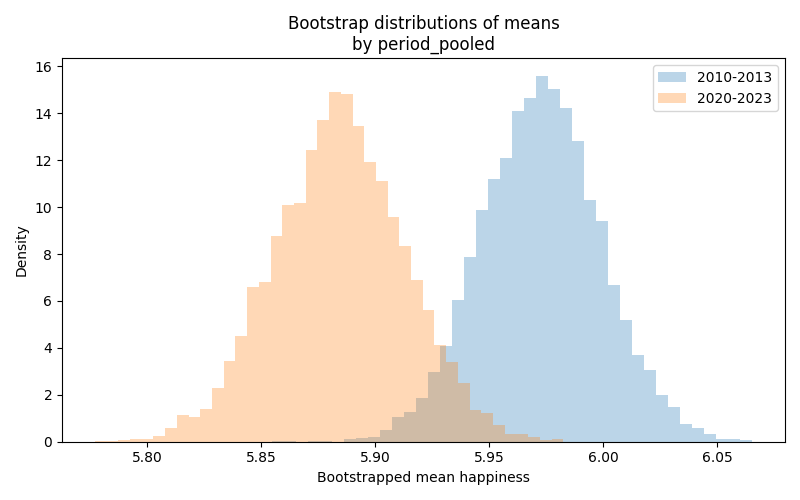
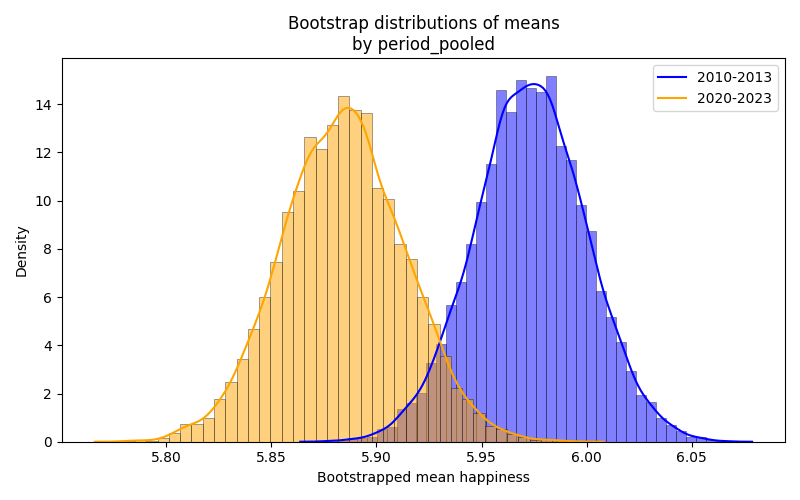
updated readme (also figure numbers in text)

diff --git a/src/analysis.py b/src/analysis.py
@@ -39,6 +39,7 @@ Methodology:
 import numpy as np
 import pandas as pd
 import matplotlib.pyplot as plt
+import seaborn as sns
 from pathlib import Path
 
 
@@ -70,7 +71,7 @@ def bootstrap_diff(data1, data2, n_boot=10000, return_all=False):
 
 
 def plot_mean_ci(df, save_path):
-    """Generate point+error bar plot of mean happiness by section and period with 95% CI."""
+    """Generate point+error bar plot with periods offset."""
     grouped = df.groupby(["section_name", "period"])["happiness"]
     ci_data = []
     for (section, period), group in grouped:
@@ -82,13 +83,24 @@ def plot_mean_ci(df, save_path):
         ci_data.append((section, period, group.mean(), ci_low, ci_high))
 
     ci_df = pd.DataFrame(ci_data, columns=["section", "period", "mean", "ci_low", "ci_high"])
-    # Plot
+
+    # Map sections to numeric positions
+    sections = ci_df["section"].unique()
+    y_pos = {s: i for i, s in enumerate(sections)}
+    dodge = 0.2  # offset between periods
+
     plt.figure(figsize=(8,5))
-    for period in ci_df["period"].unique():
+    periods = ci_df["period"].unique()
+    for i, period in enumerate(periods):
         subset = ci_df[ci_df["period"] == period]
-        plt.errorbar(subset["mean"], subset["section"],
+        # Determine offset: first period gets -dodge, second gets +dodge
+        offset = -dodge if i == 0 else dodge
+        y_vals = [y_pos[s] + offset for s in subset["section"]]
+        plt.errorbar(subset["mean"], y_vals,
                      xerr=[subset["mean"]-subset["ci_low"], subset["ci_high"]-subset["mean"]],
                      fmt='o', label=period, capsize=4)
+
+    plt.yticks(range(len(sections)), sections)
     plt.xlabel("Mean happiness (with 95% CI)")
     plt.ylabel("Section")
     plt.title("Mean happiness by section and period with 95% CI")
@@ -99,42 +111,70 @@ def plot_mean_ci(df, save_path):
     plt.show()
 
 def plot_bootstrap_means_density(df, group_var, period_var, value_col, save_path, n_boot=10000):
-    """
-    Plot density of bootstrapped means for each group defined by group_var and period_var.
-    If period_var is None, groups are only by group_var (ignoring period).
-    """
+    """Plot histogram of bootstrapped means with KDE overlay for each group."""
     groups = df[group_var].unique()
     periods = df[period_var].unique() if period_var else [None]
-    
+
+    # Determine colour mapping based on the grouping
+    if group_var == 'period_pooled':
+        # By period only: use standard period colours
+        color_map = {
+            '2010-2013': 'blue',
+            '2020-2023': 'orange'
+        }
+    elif period_var is None:
+        # By section only: use distinct colours for sections
+        section_colors = {
+            'World news': 'blue',
+            'Politics': 'green',
+            'Opinion': 'orange'
+        }
+        color_map = {g: section_colors.get(g, 'gray') for g in groups}
+    else:
+        # By section and period: use light/dark per section
+        color_map = {
+            ('World news', '2010-2013'): 'steelblue',
+            ('World news', '2020-2023'): 'darkblue',
+            ('Politics', '2010-2013'): 'lightgreen',
+            ('Politics', '2020-2023'): 'darkgreen',
+            ('Opinion', '2010-2013'): 'lightsalmon',
+            ('Opinion', '2020-2023'): 'darkorange',
+        }
+
     plt.figure(figsize=(8,5))
-    
+
     for period in periods:
         for group in groups:
             if period:
                 data = df[(df[group_var] == group) & (df[period_var] == period)][value_col].values
                 label = f"{group} ({period})"
+                key = (group, period)
             else:
                 data = df[df[group_var] == group][value_col].values
                 label = group
+                key = group
             if len(data) < 5:
                 print(f"Not enough data for {label}, skipping.")
                 continue
-            
+
             # Bootstrap means
             boot_means = [np.mean(np.random.choice(data, size=len(data), replace=True)) for _ in range(n_boot)]
-            
-            # Plot density
-            plt.hist(boot_means, bins=40, density=True, alpha=0.3, label=label)  # density=True for probability density
-    
+
+            # Get colour
+            color = color_map.get(key, 'gray')
+            # Histogram (bars) with colour
+            plt.hist(boot_means, bins=40, density=True, alpha=0.5, color=color, edgecolor='black', linewidth=0.5)
+            # KDE overlay (same colour)
+            sns.kdeplot(boot_means, color=color, linewidth=1.5, label=label)
+
     plt.xlabel(f"Bootstrapped mean happiness")
     plt.ylabel("Density")
     plt.title(f"Bootstrap distributions of means\nby {group_var}" + (f" and {period_var}" if period_var else ""))
     plt.legend()
     plt.tight_layout()
     plt.savefig(save_path)
+    plt.close()
     print(f"Saved bootstrap means density plot to {save_path}")
-    plt.show()
-
 
 def plot_bootstrap_distribution(boot_diffs, observed_diff, ci_low, ci_high, save_path):
     """Plot histogram of bootstrap differences with CI and observed difference."""
@@ -331,9 +371,10 @@ def main():
         if len(data_2010_sec) < 5 or len(data_2020_sec) < 5:
             print(f"{sec}: insufficient data (n<5)")
             continue
-        diff, ci_lo, ci_hi = bootstrap_diff(data_2010_sec, data_2020_sec)
-        print(f"{sec}: change = {diff:.3f}  [95% CI {ci_lo:.3f}, {ci_hi:.3f}]")
-    print()
+        # Use return_all=True to get the full bootstrap array
+        diff, ci_lo, ci_hi, boot_diffs = bootstrap_diff(data_2010_sec, data_2020_sec, n_boot=10000, return_all=True)
+        prob_2020_gt_2010 = np.mean(boot_diffs > 0)
+        print(f"{sec}: change = {diff:.3f}  [95% CI {ci_lo:.3f}, {ci_hi:.3f}]  Pr(2020‑23 > 2010‑13) = {prob_2020_gt_2010:.3f}")
 
     # 6. Point+error plot
     plot_mean_ci(df, Path("figures/mean_ci_by_section_period.png"))
@@ -368,8 +409,9 @@ def main():
             data_2010_sec = df[(df["section_name"] == sec) & (df["period"] == "2010-2013")]["happiness"].values
             data_2020_sec = df[(df["section_name"] == sec) & (df["period"] == "2020-2023")]["happiness"].values
             if len(data_2010_sec) >= 5 and len(data_2020_sec) >= 5:
-                diff, ci_lo, ci_hi = bootstrap_diff(data_2010_sec, data_2020_sec)
-                f.write(f"{sec}: change = {diff:.3f} [95% CI {ci_lo:.3f}, {ci_hi:.3f}]\n")
+                diff, ci_lo, ci_hi, boot_diffs = bootstrap_diff(data_2010_sec, data_2020_sec, return_all=True)
+                prob = np.mean(boot_diffs > 0)
+                f.write(f"{sec}: change = {diff:.3f} [95% CI {ci_lo:.3f}, {ci_hi:.3f}]  Pr(2020‑23 > 2010‑13) = {prob:.3f}\n")
         f.write("\nCoverage:\n")
         f.write(coverage.round(3).to_string())
 

diff --git a/README.md b/README.md
@@ -349,7 +349,7 @@ We would:
   been written under similar editorial policies. We use bootstrapping to quantify uncertainty
   due to sampling variability.
 
-- Methods (descriptive + bootstrap): kiba kiba kiba kibakibakibakibakiba
+- Methods: We computed descriptive statistics (mean, median, standard deviation, quartiles, skewness, kurtosis) for each section‑period group. For inferential comparisons, we used non‑parametric bootstrapping with 10,000 resamples to construct 95% confidence intervals for differences in means (overall period difference, pairwise section differences, and period change within each section).
 
 ### Descriptive Statistics
 
@@ -368,37 +368,38 @@ Table 1 shows summary statistics for each section‑period group. [Optional: com
 
 #### Visualisation
 
-Figure 1 shows the distribution of happiness scores for the two time periods (pooling sections). The density curves overlap substantially, but a slight shift towards lower scores in 2020‑23 is visible.
+Figure 5 shows the distribution of happiness scores for the two time periods (pooling sections). The density curves overlap substantially, but a slight shift towards lower scores in 2020‑23 is visible.
 
 ![Density of happiness by period](figures/happiness_distribution_by_period.png)  
 ***Figure 5:** Density plot of happiness scores for 2010‑13 and 2020‑23 (all sections combined).*
 
-Figure 2 displays the distributions by section (ignoring period). Politics articles tend toward higher happiness values, while Opinion shows a slightly lower peak.
+Figure 6 displays the distributions by section (ignoring period). Politics articles tend toward higher happiness values, while Opinion shows a slightly lower peak.
 
 ![Density of happiness by section](figures/happiness_distribution_by_section.png)  
 ***Figure 6:** Density plot of happiness scores for World news, Politics, and Opinion (both periods pooled).*
 
-Figure 3 presents boxplots for each section‑period group, highlighting medians, quartiles, and outliers. The decrease in Politics over time is evident, while Opinion appears to increase slightly.
+Figure 7 presents boxplots for each section‑period group, highlighting medians, quartiles, and outliers. The decrease in Politics over time is evident, while Opinion appears to increase slightly.
 
 ![Boxplot of happiness by section and period](figures/happiness_by_section_and_period_boxplot.png)  
-***Figure 7:** Boxplot of happiness scores for each section and period.*
+***Figure 7:** Ridgeline plot showing the distribution of happiness scores for each section‑period group.*
 
 ### Inferential Statistics
 
 All confidence intervals are 95% bootstrap intervals based on 10,000 resamples.
 
-#### Comparison 1: Overall Period Difference
-The mean happiness across all sections in 2020‑23 was <!-- [DIFF]--> **-0.088** points lower than in 2010‑13, with a 95% bootstrap confidence interval of <!--[LOWER, UPPER]--> **-0.165, -0.011**. Since the entire interval lies below zero, we conclude that happiness decreased overall between the two periods.
+### `Comparison 1: Overall Period Difference`
 
-Fig 4 shows the bootstrap distribution of this difference; the red line is the observed difference, and the blue dashed lines mark the 95% CI.
+The mean happiness across all sections in 2020‑23 was **-0.089** points lower than in 2010‑13, with a 95% bootstrap confidence interval of **[-0.164, -0.014]**. Since the entire interval lies below zero, we conclude that happiness decreased overall between the two periods. The probability that the mean happiness in 2010‑13 is higher than in 2020‑23 is approximately **0.985** (i.e., in 98.5% of bootstrap resamples, the earlier period mean exceeded the later period mean).
+
+Figure 8 shows the bootstrap distribution of this difference; the red line is the observed difference, and the blue dashed lines mark the 95% CI.
 
 ![Bootstrap distribution of the overall period difference](figures/bootstrap_period_difference.png)  
 ***Figure 8:** Bootstrap distribution of the mean difference (2020‑23 minus 2010‑13). The red line is the observed difference, blue dashed lines are the 95% CI.*
 
-Fig 5 displays the bootstrap distributions of the mean happiness for each period (all sections combined). The separation between the two distributions reflects the uncertainty around the period means and confirms the downward shift.
+Figure 9 displays the bootstrap distributions of the mean happiness for each period (all sections combined). The separation between the two distributions reflects the uncertainty around the period means and confirms the downward shift.
 
 ![Bootstrap distributions of means by period (pooling sections)](figures/bootstrap_means_by_period_pooled.png)  
-***Figure 9:** Bootstrap distributions of the mean happiness for each period, showing the uncertainty around the period means (all sections combined).*
+***Figure 9:** Bootstrap distributions with overlayed Kernel density estimate lines of the mean happiness for each period, showing the uncertainty around the period means (all sections combined).*
 
 **Critical analysis**
 The overall slight decrease in happiness noticed in our dataset between the two periods (2010-2013 and 2020-2023) could be partly attributed to broader changes in the global political and social context of each era. Especially the years after 2020 have seen several major global crises, such as the COVID-19 pandemic and geopolitical conflicts such as the wars in Ukraine and Gaza. These events could be used to think of why there could be a general negative sentiment shift in media coverage. It is important to mention that the point is not to conclude that the second period has more extreme events or has seen worse incidents but we could use major crisis events during the second interval to begin to explain the emotional shifts in our examined dataset.
@@ -441,20 +442,26 @@ However, the observed slight decrease should also be interpreted with caution, a
 
 *Table 3. Most frequent negative words per period (overall dataset)*
 
-#### Comparison 2: Differences Between Sections
+### `Comparison 2: Differences Between Sections`
+
 Pairwise comparisons (ignoring period) reveal:
-- **Politics vs World news**: Politics is happier by <!--[DIFF_PW]--> **0.158** points (95% CI <!--[LOWER, UPPER]--> -0.056, 0.261).
-- **World news vs Opinion**: No significant difference (diff = <!--[DIFF_WO]--> **-0.056**, 95% CI <!--[LOWER, UPPER]--> -0.166, 0.052).
-- **Politics vs Opinion**: Politics is happier by <!--[DIFF_PO]--> **+0.215** points (95% CI <!-- [LOWER, UPPER]--> 0.131, 0.298).
+
+- **Politics vs World news**: Politics is happier by **0.159** points (95% CI [0.057, 0.260]). In **99.5%** of bootstrap resamples, Politics had a higher mean than World news.
+
+- **World news vs Opinion**: No significant difference (diff = **-0.057**, 95% CI [-0.167, 0.053]). The probability that World news is happier than Opinion is approximately **0.275**.
+
+- **Politics vs Opinion**: Politics is happier by **0.216** points (95% CI [0.134, 0.297]). In **100%** of bootstrap resamples, Politics had a higher mean than Opinion.
 
 Thus, Politics articles consistently score higher than the other two sections, while World news and Opinion are statistically similar.
 
-![Bootstrap distribution of the overall period difference](figures/combined_comparison2.png)  
-***Figure 10:** Bootstrap distribution of the mean difference (Politics minus World news, Opinion minus world news, Opinion minus Politics). The red line is the observed difference, blue dashed lines are the 95% CI.*
+The bootstrap distributions of these differences (Figure 10) visualise the sampling variability of each pairwise comparison; the separation of the intervals from zero confirms the significant differences where they occur. Figure 11 shows the bootstrap distributions of the mean happiness for each section (pooling both periods), illustrating the uncertainty around the point estimates.
 
+![Combined bootstrap distributions for pairwise differences](figures/combined_comparison2.png)  
+***Figure 10:** Bootstrap distributions of the mean differences for each pair (Politics minus World news, Opinion minus World news, Opinion minus Politics). The red lines mark the observed differences, blue dashed lines the 95% CIs.*
 
 ![Bootstrap distributions of means by section (pooling periods)](figures/bootstrap_means_by_section.png)  
-***Figure 11:** Bootstrap distributions of the mean happiness for each section, showing the sampling variability of the section means.*
+***Figure 11:** Bootstrap distributions with overlayed Kernel density estimate lines of the mean happiness for each section, showing the sampling variability of the section means.*
+
 
 **Critical analysis**
 
@@ -490,18 +497,18 @@ Looking more closely at our dataset provides further insight into the observed t
 Looking at sections overall helps to explain differences in reporting styles and language variations across the dataset. However, to gain a more fine-grained view of how these patterns develop over time within each section, we should analyse the sections within each period.
 
 
-#### Comparison 3: Period Change Within Each Section
+### `Comparison 3: Period Change Within Each Section`
 
-- **World news**: No significant change (diff = <!--[DIFF_WN]--> **-0.052**, 95% CI <!--[LOWER, UPPER]--> -0.228, 0.129).
-- **Politics**: Significant decrease of <!--[DIFF_P]--> **-0.127** points (95% CI <!--[LOWER, UPPER]--> -0.227, -0.029).
-- **Opinion**: No significant change (diff = <!--[DIFF_O]--> **0.118**, 95% CI <!--[LOWER, UPPER]--> -0.009, 0.250), though the interval is mostly positive, hinting at a possible increase.
+- **World news**: No significant change (diff = **-0.051**, 95% CI [-0.226, 0.126]). The probability that 2020‑23 > 2010‑13 is **0.279**.
+- **Politics**: Significant decrease of **-0.127** points (95% CI [-0.224, -0.030]). The probability that 2020‑23 > 2010‑13 is **0.006**.
+- **Opinion**: No significant change (diff = **0.117**, 95% CI [-0.007, 0.246]), though the interval is mostly positive. The probability that 2020‑23 > 2010‑13 is **0.969**.
 
-Fig 7 presents the bootstrap distributions of the mean for each section‑period group, allowing direct visual comparison of the uncertainty and central tendency for the two periods within each section. The separation (or overlap) between the 2010‑13 and 2020‑23 distributions for each section reflects the evidence for a change
+Figure 12 presents the bootstrap distributions of the mean for each section‑period group, allowing direct visual comparison of the uncertainty and central tendency for the two periods within each section. The separation (or overlap) between the 2010‑13 and 2020‑23 distributions for each section reflects the evidence for a change.
 
 ![Bootstrap distributions of means by section and period](figures/bootstrap_means_by_section_and_period.png)  
 ***Figure 12:** Bootstrap distributions of the mean happiness for each section‑period group.*
 
-Fig 8 shows the point estimates with 95% confidence intervals for each group, making it easy to see the magnitude and uncertainty of the differences.
+Figure 13 shows the point estimates with 95% confidence intervals for each group, making it easy to see the magnitude and uncertainty of the differences.
 
 ![Mean happiness by section and period with 95% CI](figures/mean_ci_by_section_period.png)  
 ***Figure 13:** Point plot with 95% confidence intervals for each section‑period group.*
@@ -514,7 +521,12 @@ The Opinion and Politics sections for 2020-2023 seems to be closer to alignment.
 
 #### Coverage
 
-On average, only about 19-20% of words per article contributed to the happiness scores. This means the scores are based on a limited emotional vocabulary, which should be considered when interpreting the results.
+On average, only about **19–20%** of words per article contributed to the happiness scores. This means the scores are based on a limited subset of the vocabulary. The low coverage arises from the methodological choices in our analysis:
+
+- **Words not in the labMT lexicon** are simply ignored. This excludes any vocabulary that was not rated by Mechanical Turk workers.
+- **Neutral stopwords** (words with happiness scores between 4 and 6) are also removed from the calculation to increase sensitivity.
+
+Thus, the happiness scores reflect only the subset of emotional vocabulary that survived both the lexicon filter and the neutral‑word removal. While this reduces absolute values, the coverage is **consistent across all section‑period groups** (range 18.9–20.1%), so differences between groups are unlikely to be driven by varying amounts of matched text. Consequently, comparative claims about relative differences are more reliable than the absolute scores themselves.
 
 | Section     | 2010‑13 | 2020‑23 |
 |-------------|---------|---------|
@@ -642,21 +654,21 @@ Given the sections we chose for the happiness evaluation of The Guardian over pr
 
 As revealed by our code in [](src/guardian_populism.py), our sample of The Guardian features 67 articles with at least one populist term. The total count of populist term occurences is 634 out of total word count of 331240 of the articles that include >=1 populist terms. For readability and a general assumption that mentioning >=1 populist term shifts the register of an article and opens up the possibility of perpetuating the effects of populist rhetoric, we will be referring to such articles (incl. >=1 populist term) as 'populist articles'. The mean happiness score of populist articles is approximately 5.84. 
 
-By examining our sample of The Guardian articles as they appear in [](data/processed/guardian_articles_with_scores.csv) against the UK column of the populism dictionary (Rooduijn and Pauwels 2011) in [](data/raw/measuring_populism_dict.csv), we can observe the trends of populism rhetoric in The Guardian articles per section per period and measure both the intensity and prevalence in populism in the entire sample (*Figure 9*) & the intensity of populism in populist articles, as well as the mean happiness score of populist articles in relation to the difference of populist intensity over time and section (*Figure 10*).
+By examining our sample of The Guardian articles as they appear in [](data/processed/guardian_articles_with_scores.csv) against the UK column of the populism dictionary (Rooduijn and Pauwels 2011) in [](data/raw/measuring_populism_dict.csv), we can observe the trends of populism rhetoric in The Guardian articles per section per period and measure both the intensity and prevalence in populism in the entire sample (*Figure 14*) & the intensity of populism in populist articles, as well as the mean happiness score of populist articles in relation to the difference of populist intensity over time and section (*Figure 15*).
 
-Regarding the entirety of our sample of The Guardian, the intensity of populism (*Figure 9:* Left Panel) in each senction has increased in a largely proportinate manner in 2020-2023 compared to 2010-2013, with Politics being the section with the most populist terms per 1000 words, followed by Opinion and World News. However, this symmetry does not translate to the prevalence of populist articles (*Figure 9:* Right Panel). While the percentage of World News articles icluding at least one populist term has stayed exactly the same (at least to the 6th decimal), Politics has seen an increase from just under 40% to over 45%. Although a rise in populism in article with political content can be on par with populist and nationalist rhetoric in the UK political scene, what seems particularly interesting (and quite concerning) is the surge of populist articles in The Guardian's Opinion section, which doubled (from  16% to just over 38%).
+Regarding the entirety of our sample of The Guardian, the intensity of populism (*Figure 14:* Left Panel) in each senction has increased in a largely proportinate manner in 2020-2023 compared to 2010-2013, with Politics being the section with the most populist terms per 1000 words, followed by Opinion and World News. However, this symmetry does not translate to the prevalence of populist articles (*Figure 15:* Right Panel). While the percentage of World News articles icluding at least one populist term has stayed exactly the same (at least to the 6th decimal), Politics has seen an increase from just under 40% to over 45%. Although a rise in populism in article with political content can be on par with populist and nationalist rhetoric in the UK political scene, what seems particularly interesting (and quite concerning) is the surge of populist articles in The Guardian's Opinion section, which doubled (from  16% to just over 38%).
 
 ![Intensity and Prevalence of populist terms in entirety of sample](figures/fig_populism_whole_sample_pointline.png)  
 ***Figure 14:** The Intensity and Prevalence of populist terms per section per period in the entirety of our sample of the Guardian.*
 
-By focusing on the populist articles per section per period, we can gauge what the aforementioned trends mean for the subset of articles in question (*Figure 10*). Such a 'zooming in' is meant to supplement and help with the interpretation of the populism measurements in the overall sample. Populism intensity of populist articles in Politics and World News shows an increase of approximately 1 and 1.5 words per 1000 words respectively (*Figure 10:* Left Panel). Given the moderate increase in the intensity and prevalence of populism in both categories relating to the entire sample (*Figure 9*), such a trend seems logical. However, what we consider particularly worth mentioning is that the intensity of populism in populist Opinion articles experienced a drop of about 0.7 per 1000 words (*Figure 10:* Left Panel), meaning that while more articles in 2020-2023 contained at least one populist term (*Figure 9:* Right Panel), that upsurge was mitigated by a lower subset intensity.
+By focusing on the populist articles per section per period, we can gauge what the aforementioned trends mean for the subset of articles in question (*Figure 15*). Such a 'zooming in' is meant to supplement and help with the interpretation of the populism measurements in the overall sample. Populism intensity of populist articles in Politics and World News shows an increase of approximately 1 and 1.5 words per 1000 words respectively (*Figure 15:* Left Panel). Given the moderate increase in the intensity and prevalence of populism in both categories relating to the entire sample (*Figure 14*), such a trend seems logical. However, what we consider particularly worth mentioning is that the intensity of populism in populist Opinion articles experienced a drop of about 0.7 per 1000 words (*Figure 15:* Left Panel), meaning that while more articles in 2020-2023 contained at least one populist term (*Figure 14:* Right Panel), that upsurge was mitigated by a lower subset intensity.
 
-In addition to reporting on populist tendencies in The Guardian, the right panel in *Figure 10* relates populist articles to their mean happiness scores, as measured using the labMT 1.0 dataset. Overall, the happiness of populist articles seems to converge in 2020-2023, with the happiest section, namely 2010-2013 World News, showing a 0.3 drop in the 1-9 scale in 2020-2023. Although the populist Opinions section in 2010-2013 appears to be the least happy instance in the data, it also appears to have seen the sharpest increase in happiness, becomign the happiest one in 2020-2023. The increase in populist Politics articles' happiness is limited to the second decimal, marking a steady emotional register through the years. 
+In addition to reporting on populist tendencies in The Guardian, the right panel in *Figure 15* relates populist articles to their mean happiness scores, as measured using the labMT 1.0 dataset. Overall, the happiness of populist articles seems to converge in 2020-2023, with the happiest section, namely 2010-2013 World News, showing a 0.3 drop in the 1-9 scale in 2020-2023. Although the populist Opinions section in 2010-2013 appears to be the least happy instance in the data, it also appears to have seen the sharpest increase in happiness, becomign the happiest one in 2020-2023. The increase in populist Politics articles' happiness is limited to the second decimal, marking a steady emotional register through the years. 
 
 ![Intensity and Mean Happiness Score in articles with >= 1 populist term](figures/fig_populism_populist_articles_pointline.png)  
 ***Figure 15:** The Intensity of populist terms and Mean Happiness Score of articles with at least one populist term.*
 
-Relating back to the happiness scores per section per article in **Comparison 3** (*Figure 7*), while in the entire sample of The Guardian the 2010-2013 Politics section was the happiest, experiencing a drop in 2020-2023, among populist articles it is 2010-2013 World News that has the first place, with a visible drop in 2020-2023 which does not reflect in the overall corpus. Saddest sections in both the entire sample and the populist subset is Opinion 2010-2013. However, populist Opinion articles become slighly happier than Politics in 2020-2023, due to the former's sharper increase in happiness. This is not matched in the overall sample, with Politics remaining the happiest section per period.
+Relating back to the happiness scores per section per article in **Comparison 3** (*Figure 12*), while in the entire sample of The Guardian the 2010-2013 Politics section was the happiest, experiencing a drop in 2020-2023, among populist articles it is 2010-2013 World News that has the first place, with a visible drop in 2020-2023 which does not reflect in the overall corpus. Saddest sections in both the entire sample and the populist subset is Opinion 2010-2013. However, populist Opinion articles become slighly happier than Politics in 2020-2023, due to the former's sharper increase in happiness. This is not matched in the overall sample, with Politics remaining the happiest section per period.
 
 Connecting the high prevalence and intensity of populism in Opinion in 2020-2023 to the section's noted increase in happiness both within the populist subset and in the overall sample, it seems reasonable to assume that populism has been associated with positive emotion in Opinion pieces in The Guardian. The drop in populist World News section's happiness in 2020-2023, which is unmatched in the overall happiness scores, can indicate a rise in nationalist or even isolationist sentiment, associating happiness with the nation and finding populist tendencies outside it as threatening or negative, supporting our assumptions in the **Critical analysis** of **Comparison 3**.
 
@@ -666,7 +678,7 @@ The files in src/ include the runable code for this project. Starting from src/l
 
 The scripts words_guardian_periods.py and words_guardian_quality.py extend the qualitative analysis to the Guardian dataset. By running words_guardian_periods.py, we generate a comparison of the most frequent negative words across the two time periods (*Table 3*) The script words_guardian_quality.py focuses on differences across sections (Politics, World News, Opinion) by extracting the most frequent descriptive words while excluding short words (*Table 4*). The code in comparative_word_exhibit.py generates a word exhibit for The Guardian sample and juxtaposes it to the labMT 1.0 word exhibit. The differences between the two exhibits show what kinds of emotionally charged or disagreed upon words do and do not fit the style and emotional register of The Guardian. Together, these scripts help link the quantitative results to qualitative patterns in language.
 
-Our final qualitative examination of our chosen sample of The Guardian happens in guardian_populism.py, which parses through the guardian_articles_with_scores.csv for populist terms as they appear in measuring_populism_dict.csv and generates *Figure 9* and *Figure 10*, which showcase the overall intensity and prevalence of populism in The Guardian per section per period and the intensity and mean happiness score of populist articles respectively.
+Our final qualitative examination of our chosen sample of The Guardian happens in guardian_populism.py, which parses through the guardian_articles_with_scores.csv for populist terms as they appear in measuring_populism_dict.csv and generates *Figure 14* and *Figure 15*, which showcase the overall intensity and prevalence of populism in The Guardian per section per period and the intensity and mean happiness score of populist articles respectively.
 
 ## Conclusion
 
